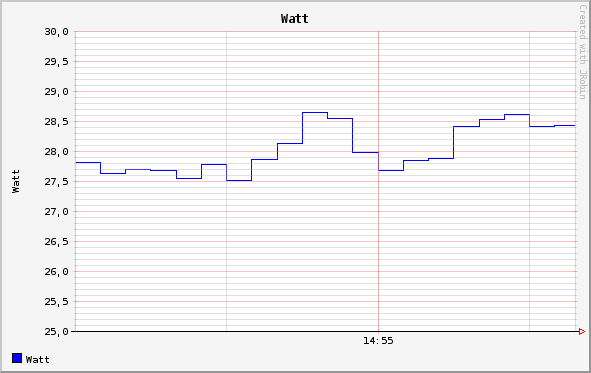
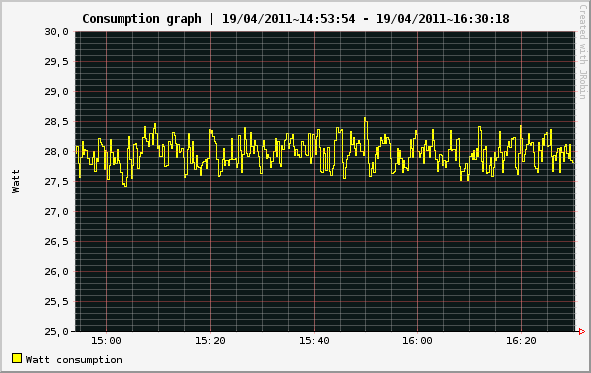
More flexible configuration in JRobinTest

diff --git a/JRobinTest/src/main/java/fr/agarnier/jrobintest/App.java b/JRobinTest/src/main/java/fr/agarnier/jrobintest/App.java
@@ -4,6 +4,7 @@ import fr.lelouet.consumption.basic.BasicConsumptionList;
 import fr.lelouet.consumption.model.ConsumptionList;
 import java.awt.Color;
 import java.io.IOException;
+import java.util.Calendar;
 import static org.jrobin.core.ConsolFuns.*;
 import static org.jrobin.core.DsTypes.*;
 import org.jrobin.core.RrdDb;
@@ -19,34 +20,42 @@ import org.jrobin.graph.RrdGraphDef;
  */
 public class App {
 
+    private static int STEP = 15;
+
     public static void main(String[] args) throws RrdException, IOException {
+
         ConsumptionList list = App.getList();
 
         long startTime = (list.getMinTime() / 1000) - 1;
 
-        RrdDef rrdDef = new RrdDef("src/main/resources/rrd/watt.rrd", startTime, 5);
-        rrdDef.addDatasource("Watt", DT_GAUGE, 5, 0, Double.NaN);
-        rrdDef.addArchive(CF_LAST, 0.1, 1, 20);
+        RrdDef rrdDef = new RrdDef("src/main/resources/rrd/watt.rrd", startTime, App.STEP);
+        rrdDef.addDatasource("Watt", DT_GAUGE, App.STEP, 0, Double.NaN);
+        rrdDef.addArchive(CF_LAST, 0.5, 1, (int) (list.getMaxTime() - list.getMinTime()) / (1000 * App.STEP));
 
         RrdDb rrdDb = new RrdDb(rrdDef);
         Sample sample = rrdDb.createSample();
-        for (long time = list.getMinTime(); time < list.getMaxTime(); time += 5000) {
+        for (long time = list.getMinTime(); time < list.getMaxTime(); time += 1000 * App.STEP) {
             sample.setTime(time / 1000);
             sample.setValue("Watt", list.getConsumption(time));
             sample.update();
         }
         rrdDb.close();
+
         RrdGraphDef gDef = new RrdGraphDef();
         gDef.setWidth(500);
         gDef.setHeight(300);
         gDef.setFilename("src/main/resources/graphs/graphWatt.png");
-        gDef.setStartTime((list.getMinTime()/1000)+6);
-        gDef.setEndTime((list.getMaxTime()/1000)-5);
-        gDef.setTitle("Watt");
+        gDef.setStartTime(list.getMinTime() / 1000);
+        gDef.setEndTime(list.getMaxTime() / 1000);
+
+        gDef.setColor("CANVAS", new Color(12, 24, 24));
+        gDef.setTitle("Consumption graph | " + App.parseDate(list.getMinTime())
+                + " - " + App.parseDate(list.getMaxTime()));
         gDef.setVerticalLabel("Watt");
 
         gDef.datasource("Watt", rrdDef.getPath(), "Watt", CF_LAST);
-        gDef.line("Watt", Color.BLUE, "Watt");
+        gDef.line("Watt", Color.GREEN, "Watt consumption");
+
         gDef.setImageFormat("png");
 
         // then actually draw the graph
@@ -55,27 +64,23 @@ public class App {
 
     static ConsumptionList getList() {
         ConsumptionList list = new BasicConsumptionList();
-        list.addData(1303217634820L, 36.1D);
-        list.addData(1303217640609L, 28.0D);
-        list.addData(1303217646394L, 27.5D);
-        list.addData(1303217652180L, 27.8D);
-        list.addData(1303217657974L, 27.6D);
-        list.addData(1303217663760L, 27.8D);
-        list.addData(1303217669545L, 27.4D);
-        list.addData(1303217675332L, 27.9D);
-        list.addData(1303217681119L, 27.6D);
-        list.addData(1303217686906L, 28.7D);
-        list.addData(1303217692692L, 28.6D);
-        list.addData(1303217698478L, 28.7D);
-        list.addData(1303217704373L, 27.9D);
-        list.addData(1303217710159L, 27.6D);
-        list.addData(1303217715946L, 28.4D);
-        list.addData(1303217721738L, 28.4D);
-        list.addData(1303217727528L, 28.6D);
-        list.addData(1303217733317L, 28.7D);
-        list.addData(1303217739101L, 28.3D);
-        list.addData(1303217744890L, 28.5D);
+        for (long l = 1303217634820L; l < 1303217634820L + 1000 * 5789; l += 5789) {
+            list.addData(l, ((double) (int) (((Math.random() * 1.3) + 27.4) * 10)) / 10);
+        }
         return list;
+    }
+
+    private static String parseDate(long Time) {
+        Calendar cal = Calendar.getInstance();
+        cal.setTimeInMillis(Time);
+        int month = cal.get(Calendar.MONTH) + 1;
+        int minute = cal.get(Calendar.MINUTE);
+        int second = cal.get(Calendar.SECOND);
+
+        return cal.get(Calendar.DATE) + "/" + (month < 10 ? 0 : "") + month
+                + "/" + cal.get(Calendar.YEAR) + "~"
+                + cal.get(Calendar.HOUR_OF_DAY) + ":" + (minute < 10 ? 0 : "")
+                + minute + ":" + (second < 10 ? 0 : "") + second;
     }
 } // class App
 
